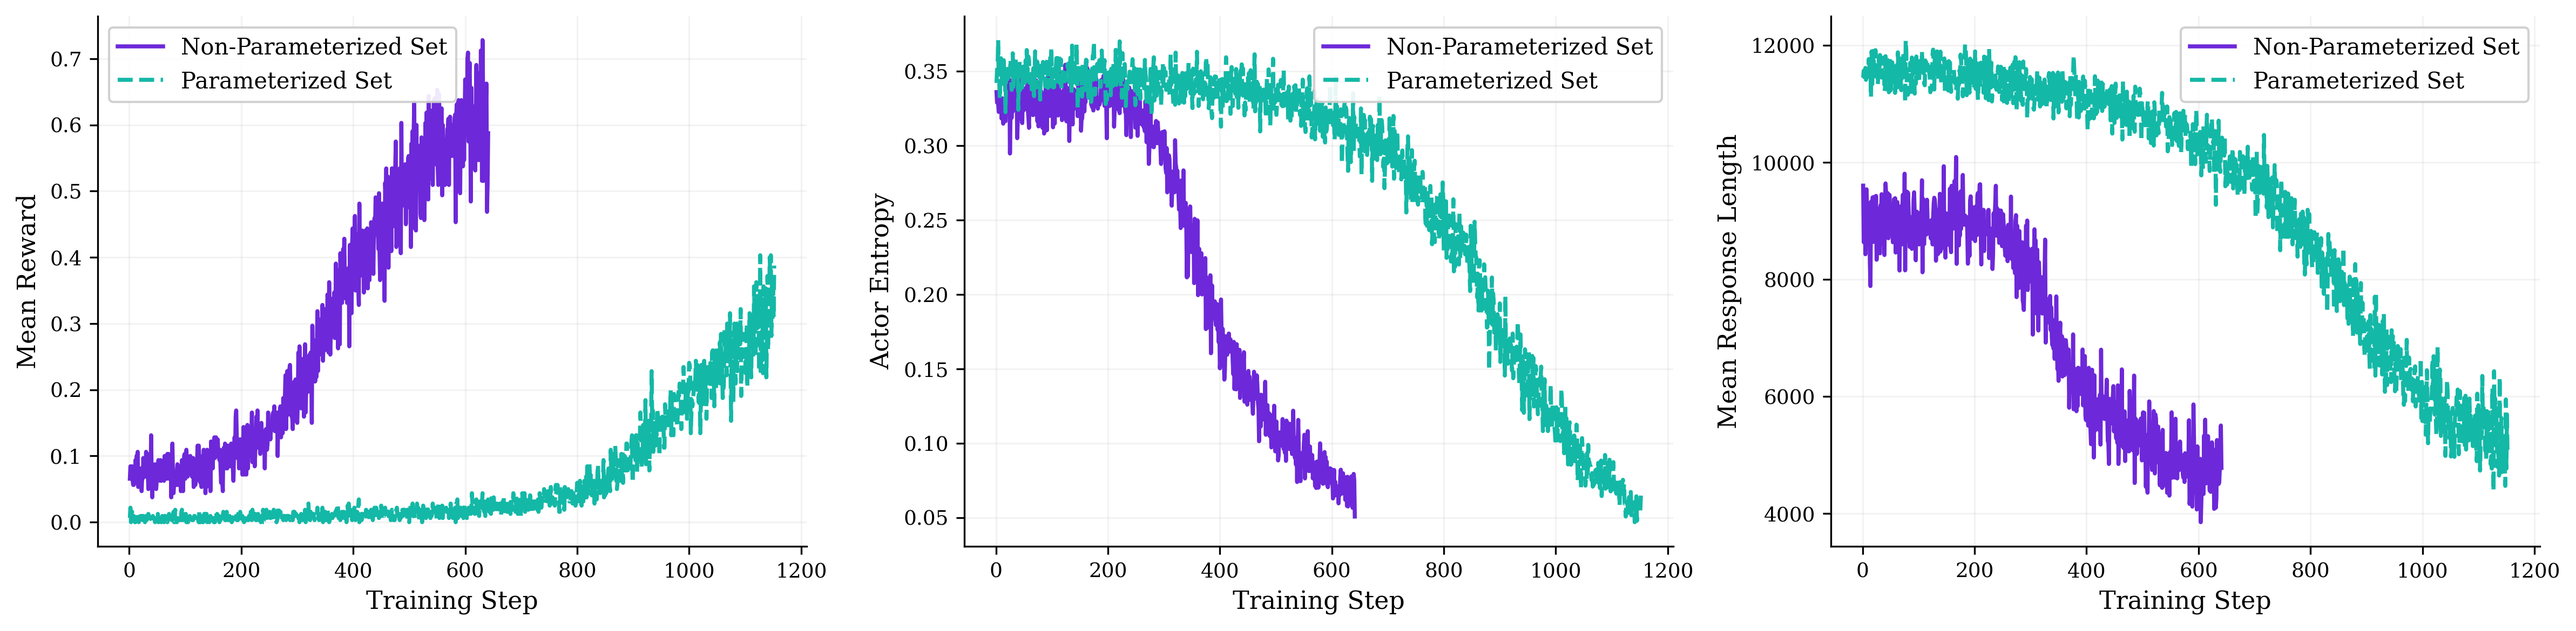
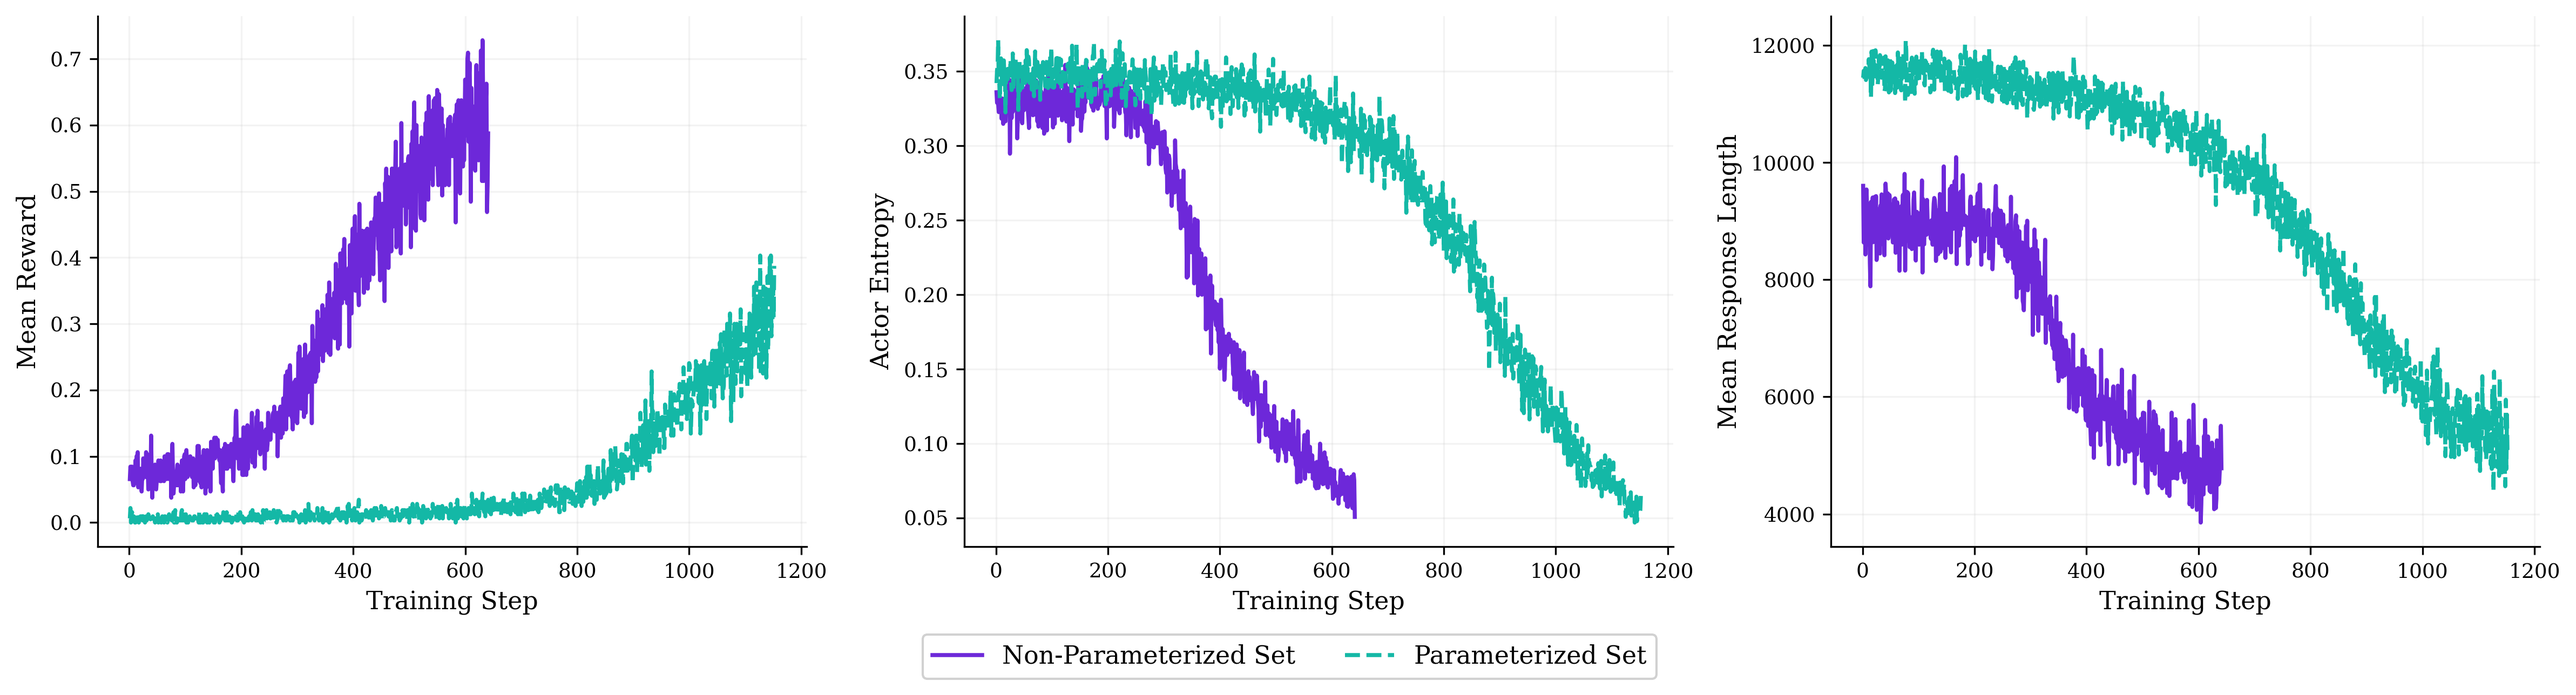
Refine plots

diff --git a/visualization/plot_grpo_train_overlay.py b/visualization/plot_grpo_train_overlay.py
@@ -111,10 +111,17 @@ def plot_overlay(
 		ax.grid(True, which="major", linestyle="-", alpha=0.15)
 		clean_spines(ax)
 
-		if left_has or right_has:
-			ax.legend(loc="best", framealpha=0.9, fontsize=10)
-
 	if has_any_data:
+		# Single shared legend centred below all subplots
+		handles, labels = axes[0].get_legend_handles_labels()
+		fig.legend(
+			handles, labels,
+			loc="lower center",
+			ncol=2,
+			fontsize=11,
+			framealpha=0.9,
+			bbox_to_anchor=(0.5, -0.08),
+		)
 		fig.tight_layout()
 		fig.savefig(output_file, dpi=300, bbox_inches="tight")
 
